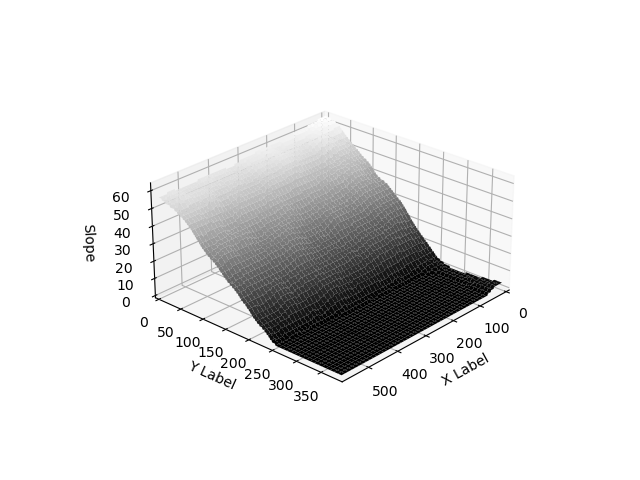
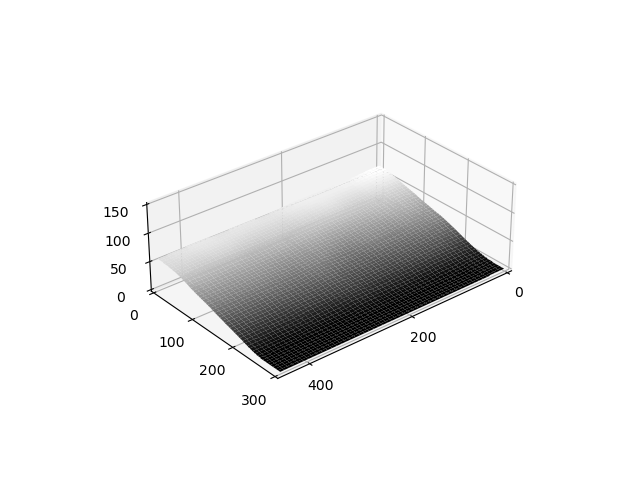
Set figure scale

diff --git a/slope_test.py b/slope_test.py
@@ -94,12 +94,21 @@ def correct_image(blur, slope_range):
     height, width = blur[slope_range[0]:slope_range[1], :].shape  # y, x
     blur = blur[slope_range[0]:slope_range[1], :]
 
+    # 10 height
     for x in range(height):
         for y in range(width):
-            blur[x][y] = blur[x][y] - int(25 - x * 25/576)
+            blur[x][y] = blur[x][y] - int(35 - x * 35/576)
             if (blur[x][y] > 150):
                 blur[x][y] = 0
             print(blur[x][y])
+            
+    # # 20, 30 height
+    # for x in range(height):
+    #     for y in range(width):
+    #         blur[x][y] = blur[x][y] - int(25 - y * 25/576)
+    #         if (blur[x][y] > 150):
+    #             blur[x][y] = 0
+    #         print(blur[x][y])
 
     return blur
 
@@ -124,11 +133,11 @@ def estimate_slope(z):
                 total_pixel_value += output[y + diff, x + diff]
     print("ave: ", total_pixel_value, total_pixel_value / count)
     # print("ave: ", total_pixel_value, total_pixel_value / (img_h * img_w))
-    
+
     return output
 
 def main():
-    
+
     vor_image_gray = cv2.imread('images_10/voro_lidar_img_2023_09_16_06_41_42_01800.jpg', 0).astype(np.uint8)   # 10 deg
     slope_range = (50, 230)   # 10 deg
     # vor_image_gray = cv2.imread('images_20/voro_lidar_img_2023_09_16_06_54_29_02000.jpg', 0).astype(np.uint8)   # 20 deg
@@ -136,28 +145,33 @@ def main():
     # vor_image_gray = cv2.imread('images_30/voro_lidar_img_2023_09_16_07_04_35_02300.jpg', 0).astype(np.uint8)   # 30 deg
     # slope_range = (50, 200)   # 30 deg
     # vor_image_gray = vor_image_gray[0:400][:]
-    vor_image_gray = vor_image_gray[0:400, 0:400]
+    # vor_image_gray = vor_image_gray[0:400, 0:400]
+    vor_image_gray = vor_image_gray[0:300, 0:450]
 
-    
     # img_h, img_w = vor_image_gray.shape
     # for y in range(img_h):
     #     vor_image_gray[y, :] = vor_image_gray[y, 100]
     slope_range = (0, 384)
-    
+
     blur = cv2.GaussianBlur(vor_image_gray, (45,45), 0)
     z = correct_image(blur, slope_range)
     z = estimate_slope(z)
-    
+
     kernel_size = 45
     kernel = np.ones((kernel_size, kernel_size), np.float32) / (kernel_size * kernel_size)
     z = cv2.filter2D(z, -1, kernel)
     # z = cv2.GaussianBlur(z, (45,45),0)
-    z = cv2.resize(z, dsize=(576,384), interpolation=cv2.INTER_AREA)
+    # z = cv2.resize(z, dsize=(576,384), interpolation=cv2.INTER_AREA)
+    # scale = 1 / 19.2
+    # z = cv2.resize(z * scale, dsize=(576 * scale, 384 * scale), interpolation=cv2.INTER_AREA)
+    # z = cv2.resize(z * scale, dsize=(30, 20), interpolation=cv2.INTER_AREA)
 
 
     fig = plt.figure()
     ax = fig.add_subplot(111, projection='3d')
-    ax.set_box_aspect([1, 1, 0.5])
+    ax.set_box_aspect([1.5, 1, 0.5])
+    #  ax.set_box_aspect([2, 1, 0.5])
+    # ax.set_aspect("equal")
 
     img_h, img_w = z.shape
     x = np.arange(0, img_w, 1)
@@ -168,16 +182,21 @@ def main():
     # z = cv2.GaussianBlur(vor_image_gray,(45,45),0)
 
     ax.plot_surface(x, y, z, cmap='gray')
-    ax.set_xlabel('X Label')
-    ax.set_ylabel('Y Label')
-    ax.set_zlabel('Slope')
+    # ax.set_xlabel('X Label')
+    # ax.set_ylabel('Y Label')
+    # ax.set_zlabel('Slope') 
 
+
+    plt.rc('font', size=15)
     ax.set_xlim(0, img_w)
     ax.set_ylim(0, img_h)
     ax.set_zlim(0, 90)
+    plt.grid(True, linestyle='--', alpha=0.7)
+    # ax.set_zlim(0, 90 * scale)
     # ax.set_zlim(0, np.max(z))
-    # ax.set_zlim(0, 150)
+    # ax.set_zlim(0, 150)   # 10, 20, 30 height
 
+    
     plt.show()
 
     cv2.waitKey(0)
